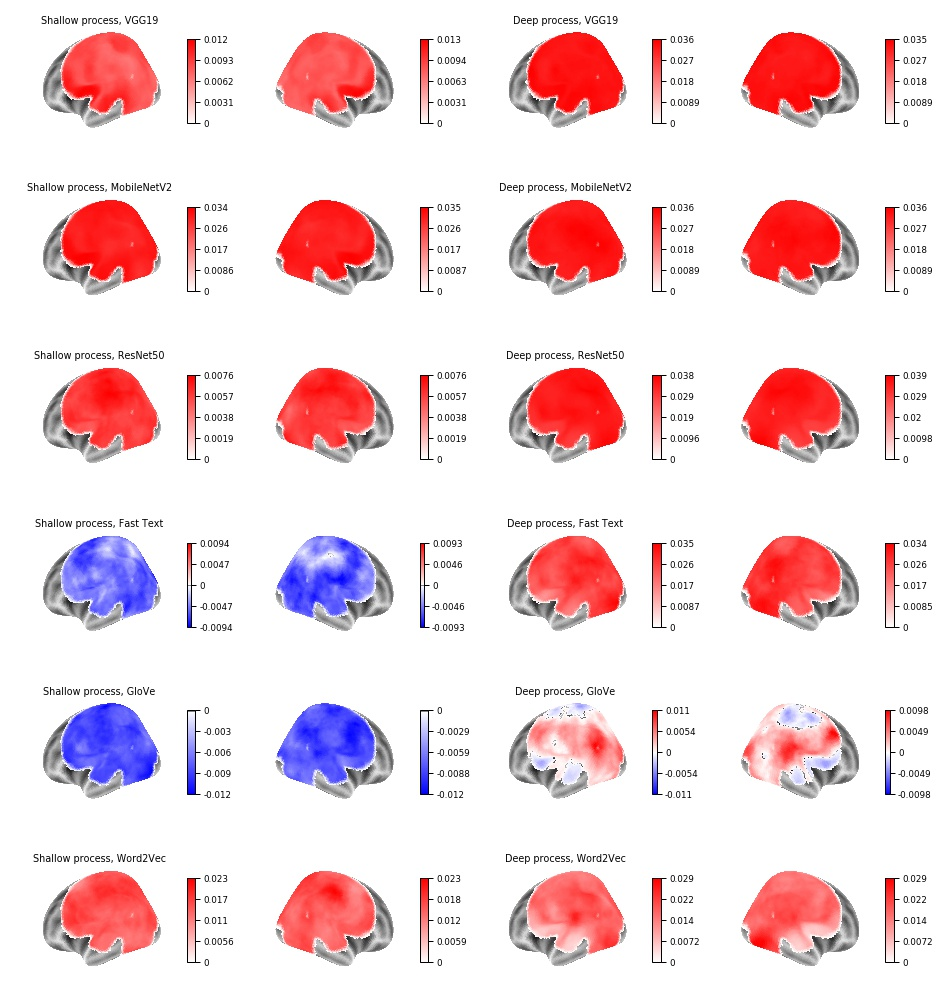
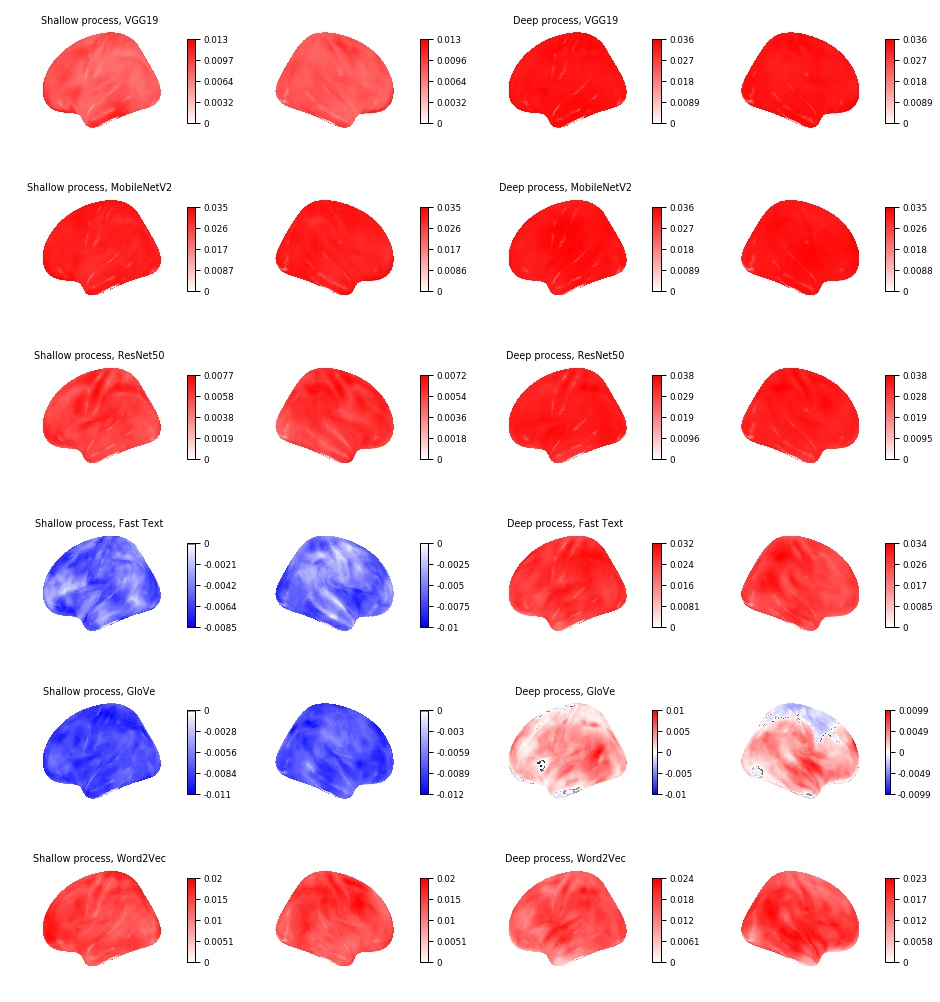
update figures

diff --git a/scripts/encoding_based_pytorch_FS_RSA_pipeline.py b/scripts/encoding_based_pytorch_FS_RSA_pipeline.py
@@ -1,0 +1,305 @@
+#!/usr/bin/env python3
+# -*- coding: utf-8 -*-
+"""
+Created on Sat Aug 28 07:16:44 2021
+
+@author: nmei
+
+Title:Beyond category-supervision: instance-level contrastive learning models predict human visual system responses to objects
+Link:https://www.biorxiv.org/content/10.1101/2020.06.15.153247v2.full.pdf
+
+voxel selection based on the encoding results
+"""
+
+import os,gc,torch
+
+import numpy  as np
+import pandas as pd
+
+from glob import glob
+
+from nilearn.input_data import NiftiMasker
+from nilearn.datasets   import load_mni152_template,load_mni152_brain_mask
+from joblib             import Parallel,delayed
+from sklearn            import preprocessing,metrics,model_selection as skms
+
+from scipy.spatial             import distance
+from nilearn.image             import new_img_like
+from brainiak.searchlight.searchlight import Searchlight
+from brainiak.searchlight.searchlight import Ball
+from torch import nn,optim
+
+from utils import (load_event_files,
+                   load_computational_features,
+                   groupby_average,
+                   searchlight_function_unit,
+                   feature_normalize)
+
+from utils_deep import (ridge,
+                        ridge_train_valid)
+
+def score_func(y, y_pred,tol = 1e-2,func = np.mean,is_train = True):
+    # compute the raw R2 score for each voxel
+    temp        = metrics.r2_score(y,y_pred,multioutput = 'raw_values')
+    # find how many voxel can be explained by the computational model
+    n_positive  = np.sum(temp > tol)
+    if n_positive > 0:
+        score   = func(temp[temp > tol])
+    else:
+        score   = 0
+    counter     = 0
+    the_number  = n_positive
+    while the_number > 0:
+        the_number = the_number // 10
+        counter += 1
+    if is_train: # we want to find a balance between the variance explained and the positive voxels
+        return 0.5 * score + 0.5 * (n_positive / 10 ** counter)
+    else:
+        return score
+
+scorer = metrics.make_scorer(score_func, greater_is_better = True,)
+
+def _searchligh_RSA(input_image,
+                    computational_model_RDM,
+                    whole_brain_mask,
+                    sl_rad                          = 9,
+                    max_blk_edge                    = 9 - 1,
+                    shape                           = Ball,
+                    min_active_voxels_proportion    = 0,
+                    ):
+    """
+    This is function is defined here is because the complex environment
+    settings where Brainiak is installed
+    
+    Inputs
+    ------------
+    input_image, 3D/4D Nifti object
+        the averaged BOLD signal brain map
+    computational_model_RDM, ndarray, scipy.spatial.distance.pdist
+        the pair-wise correlation between each pair of unique words
+    whole_brain_mask, 3D/4D Nifti object
+        the standard whole brain mask
+    sl_rad, int
+        searchlight radius, in mm
+    max_blk_edge, int
+        unknown
+    shape, Brainiak object
+        the shape of the moving searchlight sphere used for extracting voxel values
+    min_active_voxels_proportion, int or float
+        unknown
+    
+    Output
+    -------------
+    global_outputs, ndarray
+        X by Y by Z by 1
+    """
+    print('run RSA')
+    sl = Searchlight(sl_rad                         = sl_rad, 
+                      max_blk_edge                   = max_blk_edge, 
+                      shape                          = shape,
+                      min_active_voxels_proportion   = min_active_voxels_proportion,
+                      )
+    # this is where the searchlight will be moving on
+    sl.distribute([np.asanyarray(input_image.dataobj)], 
+                    np.asanyarray(whole_brain_mask.dataobj) == 1)
+    # this is used by all the searchlights
+    sl.broadcast(computational_model_RDM)
+    # run searchlight algorithm
+    global_outputs = sl.run_searchlight(searchlight_function_unit,
+                                        pool_size = -1, # use all the CPUs
+                                        )
+    return global_outputs
+
+if __name__ == "__main__":
+    for item in glob('core.*'):
+        os.system(f'rm {item}')
+    # parameters in the header
+    sub                 = '*'
+    idx_sub             = '123' # change sub
+    condition           = 'read' # change condition
+    model_name          = 'mobilenet' # change model_name
+    n_jobs              = 6 # change n_jobs
+    alpha_max           = 5 # change alpha
+    radius              = 10 # sphere radius
+    device              = 'cpu' # the model will break my GPU
+    dropout_rate        = 0.9
+    batch_size          = 8
+    learning_rate       = 1e-3
+    patience            = 5
+    epochs              = int(3e3)
+    tol                 = 1e-4
+    l2_term             = 1e-2
+    print_train         = True # verbose
+    working_dir         = f'../results/Searchlight_standard/{sub}'
+    event_dir           = f'../data/Searchlight/{sub}'
+    mask_dir            = f'../data/masks_and_transformation_matrices/{sub}'
+    folder_name         = f'encoding_based_FS_RSA_{radius}mm'
+    output_dir          = f'../results/{folder_name}'
+    model_dir           = f'../models/{folder_name}'
+    whole_brain_data    = np.sort(glob(os.path.join(working_dir,'*.nii.gz')))
+    events              = np.sort(glob(os.path.join(event_dir,'while_brain_bold_stacked.csv')))
+    whole_brain_mask    = load_mni152_brain_mask()
+    example_func        = load_mni152_template()
+    # make folder for the RSA maps
+    if not os.path.exists(output_dir):
+        os.mkdir(output_dir)
+    # make folder for the encoding maps - as a basline for RSA
+    if not os.path.exists(output_dir.replace(f'encoding_based_RSA_{radius}mm','encoding')):
+        os.mkdir(output_dir.replace(f'encoding_based_RSA_{radius}mm','encoding'))
+    if not os.path.exists(model_dir):
+        os.makedirs(model_dir)
+    
+    if not os.path.exists(
+            os.path.join(os.path.join(output_dir,
+                                      f'{idx_sub}_{condition}_{model_name}.nii.gz'))):
+        # prepare for loading the data
+        masker              = NiftiMasker(whole_brain_mask,).fit() # maker
+        df_events           = pd.concat([load_event_files(f,idx = 3) for f in events]) # change dir idx
+        # load the data into memory - parallize the jobs
+        res = Parallel(n_jobs = -1,verbose = 1,)(delayed(masker.transform)(**{
+                'imgs':item}) for item in whole_brain_data)
+        BOLD_array          = np.concatenate(res) # for encoding, n_samples x n_voxels
+        del res # save some memory because we will need a lot
+        # convert the byt data to string
+        df_events['words']  = df_events['words'].apply(lambda x:x.lower())
+        # load the 36 unique words
+        unique_words        = np.load('../data/unique_words/words.npy').astype(str)
+        # load the computational features - the 1st argument is for modification
+        df_features         = load_computational_features('../results',model_name)
+        
+        # pick condition
+        idx_condition       = df_events['context'] == condition
+        brain_features      = BOLD_array[idx_condition]
+        df_data             = df_events[idx_condition]
+        del BOLD_array
+        
+        # leave one subject out cross validation
+        idx_test            = df_data['sub'] == idx_sub # the left-out subject
+        idx_train           = df_data['sub'] != idx_sub # the training subjects
+        
+        array_train         = brain_features[idx_train]
+        df_data_train       = df_data[idx_train]
+        features_train      = np.array([df_features[item] for item in df_data_train['words'].values])
+        groups_train        = df_data_train['sub'].values
+        
+        array_test          = brain_features[idx_test]
+        df_data_test        = df_data[idx_test]
+        features_test       = np.array([df_features[item] for item in df_data_test['words'].values])
+        del brain_features
+        
+        # leave one subject out cross validation partitioning
+        cv                  = skms.LeaveOneGroupOut()
+        for train,valid in cv.split(features_train,groups = groups_train):
+            train,valid
+        
+        # scaler the y that is used in encoding model
+        scaler_feature      = preprocessing.MinMaxScaler((0,1.)).fit(features_train)
+        scaler_brain        = preprocessing.MinMaxScaler((0,1.)).fit(array_train)
+        features_train_normalized = scaler_feature.transform(features_train)
+        array_train_normalized = scaler_brain.transform(array_train)
+        
+        torch.manual_seed(12345)
+        in_features,out_features = features_train.shape[1],array_train.shape[1]
+        ridge_model = ridge(device = device,
+                            dropout_rate = dropout_rate,
+                            in_features = in_features,
+                            out_features = out_features,
+                            )
+        #Loss function
+        loss_func   = nn.BCEWithLogitsLoss()
+        #Optimizer
+        optimizer   = optim.Adam([params for params in ridge_model.parameters()],
+                                  lr = learning_rate,
+                                  weight_decay = l2_term)
+        # train and validate the model
+        if os.path.exists(os.path.join(model_dir,
+                                       f'{condition}_{model_name}_{idx_sub}.pth')):
+            ridge_model = torch.load(os.path.join(model_dir,
+                                                  f'{condition}_{model_name}_{idx_sub}.pth'))
+        else:
+            ridge_model = ridge_train_valid(
+                ridge_model,
+                loss_func                   = loss_func,
+                optimizer                   = optimizer,
+                device                      = device,
+                f_name                      = os.path.join(model_dir,
+                                                           f'{condition}_{model_name}_{idx_sub}.pth'),
+                features_train_normalized   = features_train_normalized,
+                array_train_normalized      = array_train_normalized,
+                train                       = train,
+                valid                       = valid,
+                epochs                      = epochs,
+                tol                         = tol,
+                patience                    = patience,
+                batch_size                  = batch_size,
+                l2_term                     = 0,# L2 is defined in the optimizer
+                print_train                 = print_train,)
+        
+        #######################################################################
+        with torch.no_grad():
+            out_func = nn.Sigmoid()
+            array_train_pred = out_func(ridge_model(
+                    torch.from_numpy(features_train).float())).to('cpu').detach().numpy()
+            encoding_score = metrics.r2_score(array_train_normalized,
+                                              array_train_pred,
+                                              multioutput = 'raw_values')
+        # voxel secltion based on the encoding scores of the training data
+        n_positive = np.sum(encoding_score > 0)
+        if n_positive > 100:
+            idx_voxels = np.where(encoding_score > 0)
+        else:
+            idx_voxels = np.argpartition(encoding_score,-300)[-300:]
+        # encoding model results
+        with torch.no_grad():
+            out_func = nn.Sigmoid()
+            array_test_pred     = out_func(ridge_model(
+                torch.from_numpy(features_test).float())).to('cpu').detach().numpy() # we will use this for the RSA as well
+        array_test_normalized   = scaler_brain.transform(array_test)
+        encoding_score          = metrics.r2_score(array_test_normalized,
+                                                   array_test_pred,
+                                                   multioutput = 'raw_values')
+        
+        encoding_brain = masker.inverse_transform(encoding_score)
+        encoding_brain.to_filename(os.path.join(
+                output_dir.replace(f'encoding_based_RSA_{radius}mm','encoding'),
+                f'{idx_sub}_{condition}_{model_name}.nii.gz'))
+        
+        # select the voxels
+        array_test_normalized = array_test_normalized[:,idx_voxels]
+        #######################################################################
+        # now make sure we are working on the testing subject #################
+        #######################################################################
+        # we will correlate the predicted BOLD with the actual BOLD ###########
+        #######################################################################
+        
+        # average predicted responses and the brain responeses for each word
+        temp,df_average = groupby_average([array_test_pred,array_test_normalized],
+                                          df_data_test.reset_index(drop = True),
+                                          groupby = ['words'])
+        
+        BOLD_average        = temp[0] # 36 x n_voxels
+        BOLD_pred_average   = temp[1] # 36 x n_voxels after selection
+        
+        # normalize the model features
+        BOLD_pred_average   = feature_normalize(BOLD_pred_average)
+        # RDMs of the model features
+        RDM                 = distance.pdist(BOLD_pred_average,'correlation')
+        BOLD_average        = masker.inverse_transform(BOLD_average)
+        
+        # perform RSA on the brain
+        gc.collect()
+        res             = _searchligh_RSA(BOLD_average,
+                                          RDM,
+                                          whole_brain_mask,
+                                          sl_rad = radius,
+                                          )
+        gc.collect()
+        
+        res  = new_img_like(example_func,np.array(res,  dtype = np.float),)
+        
+        # save
+        res.to_filename(os.path.join(output_dir, f'{idx_sub}_{condition}_{model_name}.nii.gz'))
+    else:
+        print(glob(os.path.join(output_dir.replace(f'encoding_based_RSA_{radius}mm','encoding'),
+                           f'{idx_sub}_{condition}_{model_name}.nii.gz')))
+        print(glob(os.path.join(output_dir,f'{idx_sub}_{condition}_{model_name}.nii.gz')))

diff --git a/scripts/3.plot_group_average_in_standard_space.py b/scripts/3.plot_group_average_in_standard_space.py
@@ -33,7 +33,7 @@ for item in glob('core.*'):
     os.system(f'rm {item}')
 
 radius              = 10
-folder_name         = f'encoding_based_RSA_{radius}mm' # we change this accordingly
+folder_name         = f'encoding' # we change this accordingly
 # RSA_basedline_average_{radius}mm_standard
 # encoding_based_RSA_{radius}mm
 # encoding
@@ -62,6 +62,7 @@ for f in [randomise_dir,figure_group_average_dir,figure_stat_dir]:
         os.mkdir(f)
 
 df = dict(surf_mesh                 = [],
+          stat_mesh                 = [],
           bg_map                    = [],
           hemisphere                = [],
           title                     = [],
@@ -85,6 +86,7 @@ for (model_name,condition) in iterator:
     
     # left
     df['surf_mesh'              ].append(fsaverage.infl_left)
+    df['stat_mesh'              ].append(fsaverage.pial_left)
     df['bg_map'                 ].append(fsaverage.sulc_left)
     df['hemisphere'             ].append('left')
     df['title'                  ].append(f'{condition_map[condition]}, {model_name_map[model_name]}')
@@ -93,6 +95,7 @@ for (model_name,condition) in iterator:
     
     # right
     df['surf_mesh'              ].append(fsaverage.infl_right)
+    df['stat_mesh'              ].append(fsaverage.pial_right)
     df['bg_map'                 ].append(fsaverage.sulc_right)
     df['hemisphere'             ].append('right')
     df['title'                  ].append(None)
@@ -131,11 +134,12 @@ fig,axes = plt.subplots(figsize     = (4 * 4,6 * 3),
 for ax,(ii_row,row) in zip(axes.flatten(),df.iterrows()):
     image_for_plot  = row['stat_brain_map_standard']
     surf_mesh       = row['surf_mesh']
+    stat_mesh       = row['stat_mesh']
     bg_map          = row['bg_map']
     hemi            = row['hemisphere']
     title           = row['title']
     
-    brain_map_in_surf = vol_to_surf(image_for_plot,surf_mesh,radius = 2,)
+    brain_map_in_surf = vol_to_surf(image_for_plot,stat_mesh,radius = 2,)
     plot_surf_stat_map(surf_mesh,
                        brain_map_in_surf,
                        bg_map           = bg_map,

diff --git a/scripts/encoding_based_RSA_pipeline_modify_and_save.py b/scripts/encoding_based_RSA_pipeline_modify_and_save.py
@@ -12,7 +12,7 @@ import pandas as pd
 from shutil import rmtree,copyfile
 from itertools import product
 
-template = 'encoding_based_pytorch_RSA_pipeline.py'
+template = 'encoding_based_pytorch_FS_RSA_pipeline.py'
 working_dir = '../data/Searchlight'
 subjects = os.listdir(working_dir)
 model_names = ['vgg19','mobilenet','resnet50','fasttext','glove','word2vec']
